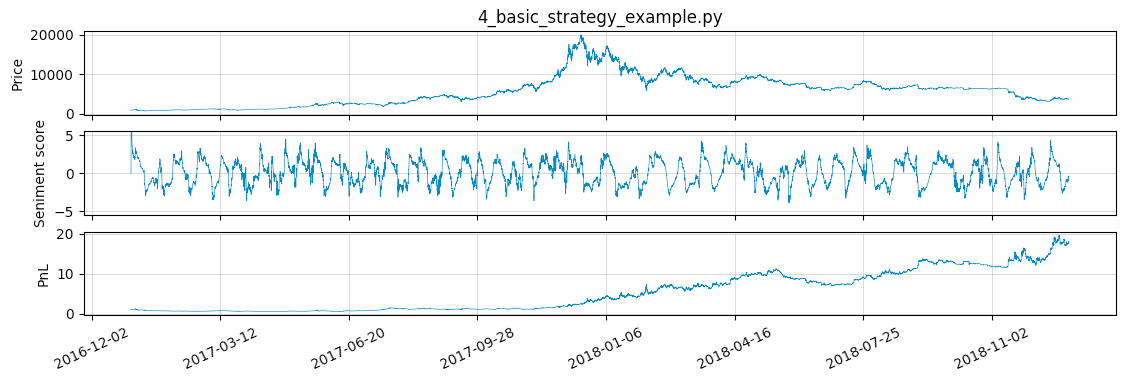
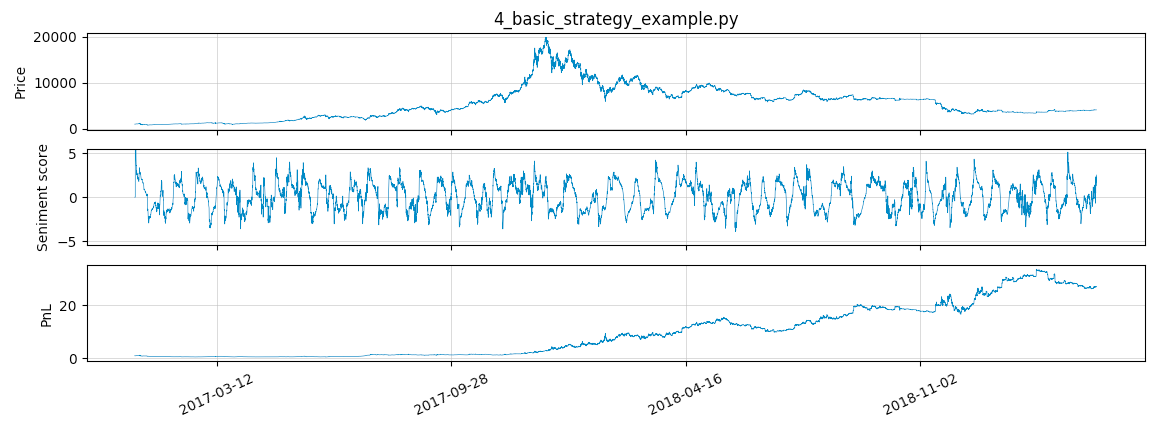
updated example data dates; re-plotted backtest performance

diff --git a/examples/0_load_augmento_example_data.py b/examples/0_load_augmento_example_data.py
@@ -19,7 +19,7 @@ filename_save_data = "{:s}/augmento_data.msgpack.zlib".format(path_save_data)
 
 # define the start and end times
 datetime_start = datetime.datetime(2017, 1, 1)
-datetime_end = datetime.datetime(2019, 1, 1)
+datetime_end = datetime.datetime(2019, 4, 1)
 
 # initialise a store for the data we're downloading
 sentiment_data = []

diff --git a/examples/2_load_bitmex_example_data.py b/examples/2_load_bitmex_example_data.py
@@ -20,7 +20,7 @@ filename_save_data = "{:s}/bitmex_data.msgpack.zlib".format(path_save_data)
 
 # define the start and end times
 datetime_start = datetime.datetime(2017, 1, 1)
-datetime_end = datetime.datetime(2019, 1, 1)
+datetime_end = datetime.datetime(2019, 4, 1)
 
 # initialise a store for the data we're downloading
 market_data = []
